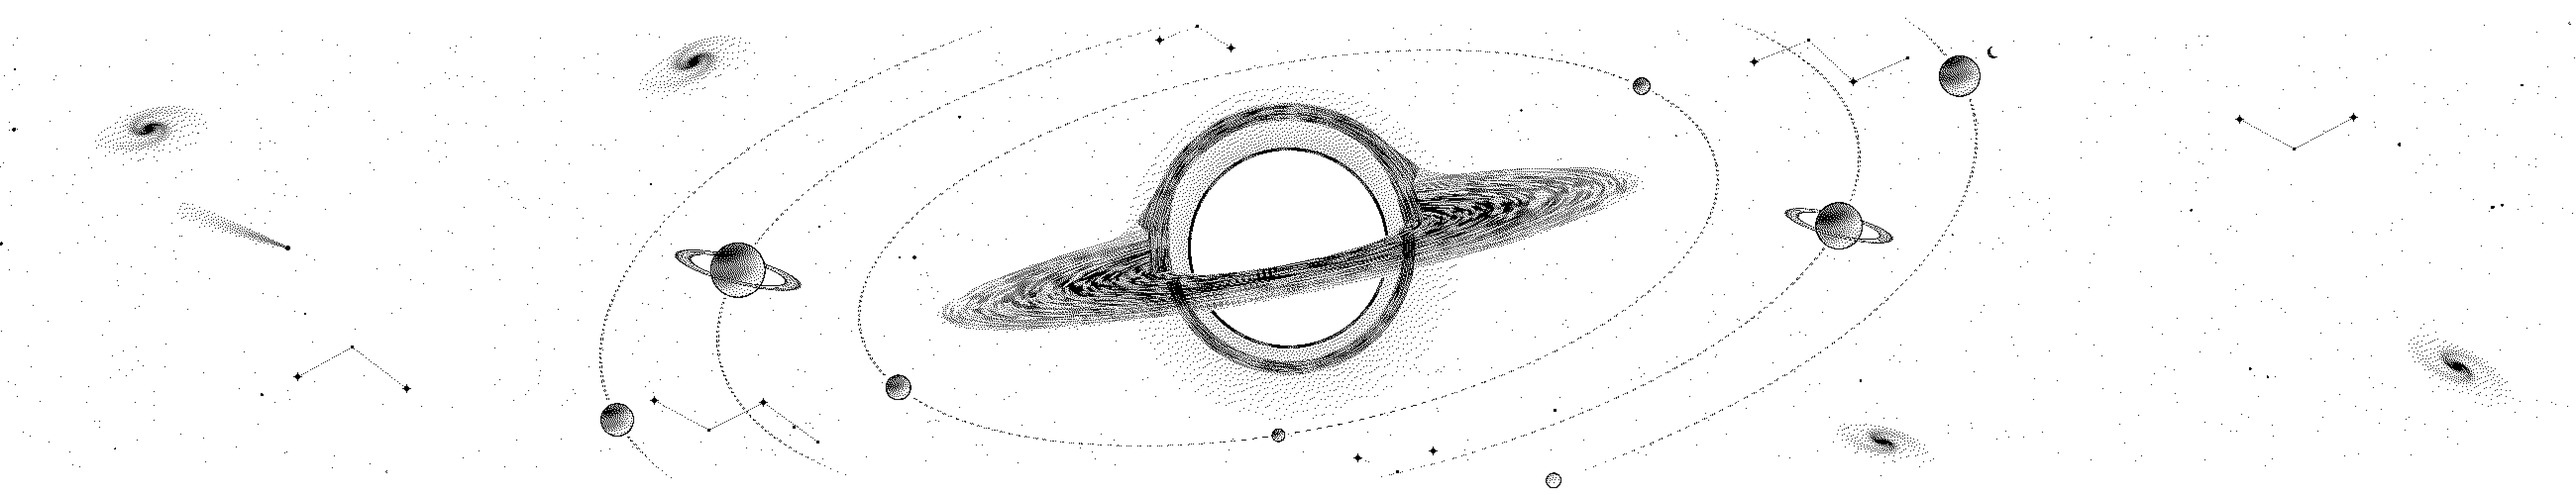
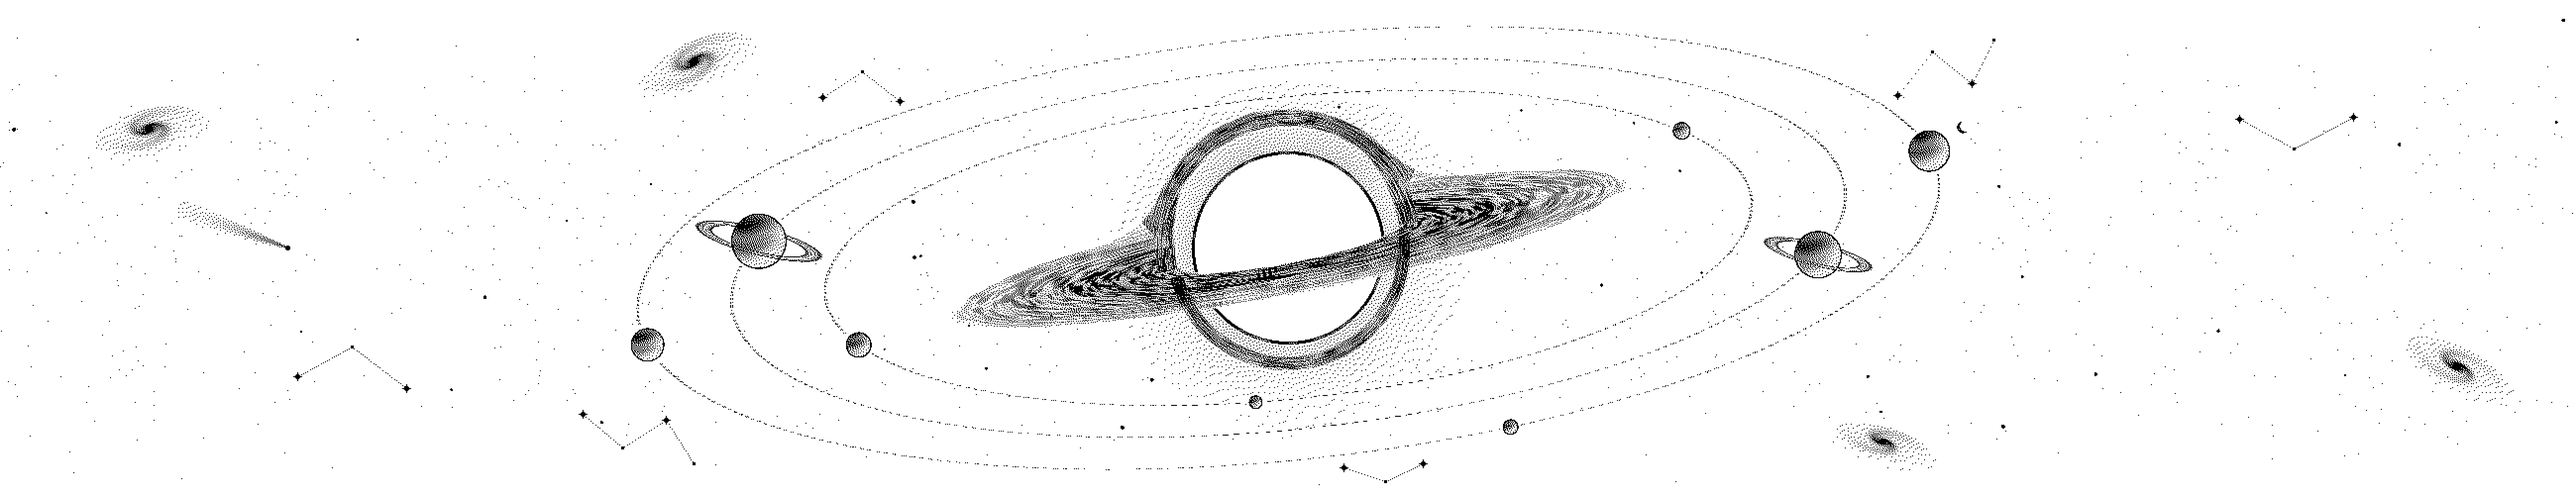
Dark hero: stars fade out at top and bottom, orbits close
- The stars now thin out gradually toward the top and bottom of the scene
  until there are none, so the band has no visible edge.
- The three orbits are reshaped (a little flatter, tilted 6 degrees) so
  every ring closes inside the scene instead of being cut off. The black
  hole is slightly smaller so the inner ring clears it, and the orbit
  lines show through its faint halo.
- Constellations moved into the open corners, off the rings.
- Phones: the top of the art fades in instead of being cropped.

Claude-Session: https://claude.ai/code/session_01A1VqEuwrkmMr14CqJk9vdN

diff --git a/src/components/Hero/Hero.module.css b/src/components/Hero/Hero.module.css
@@ -138,6 +138,13 @@
   transition: transform 0.9s cubic-bezier(0.22, 1, 0.36, 1) 0.25s, opacity 0.7s ease 0.25s, filter 0.4s ease;
 }
 
+/* The stars in the art thin out toward the top and bottom, so the scene has no edge.
+   The wrapper only matters on phones (see the media query below). */
+.holeWrap {
+  inset: 0;
+  position: absolute;
+}
+
 .hole {
   inset: 0;
   opacity: 0;
@@ -241,5 +248,11 @@
   .orb {
     width: 320px;
     height: 260px;
+  }
+
+  /* The shorter scene crops the top of the art, so fade it in instead of cutting it off */
+  .holeWrap {
+    -webkit-mask-image: linear-gradient(to bottom, transparent 0, #000 80px);
+    mask-image: linear-gradient(to bottom, transparent 0, #000 80px);
   }
 }

diff --git a/src/components/Hero/Hero.jsx b/src/components/Hero/Hero.jsx
@@ -63,7 +63,9 @@ function Hero() {
         <div aria-hidden="true" className={styles.sun}>
           <div className={styles.sunDisc}></div>
         </div>
-        <div aria-hidden="true" className={styles.hole}></div>
+        <div aria-hidden="true" className={styles.holeWrap}>
+          <div className={styles.hole}></div>
+        </div>
         <div aria-hidden="true" className={styles.hillsSolid}></div>
         <div aria-hidden="true" className={styles.hills}></div>
         <HeroOrb />
